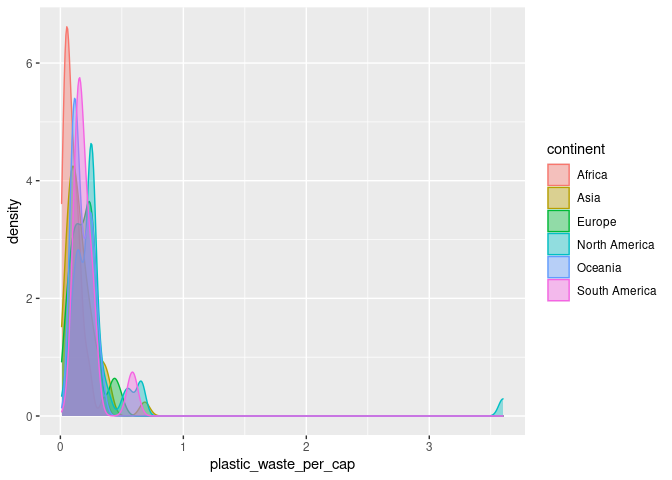
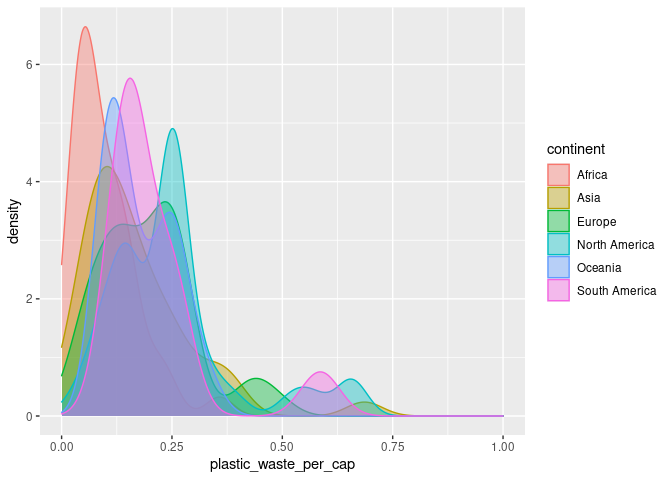
Add answers for ex 1, ex 2 and ex 3

diff --git a/lab-02.md b/lab-02.md
@@ -57,7 +57,13 @@ improperly managed and likely to end up in the ocean.
 
 ### Exercise 1
 
-Remove this text, and add your answer for Exercise 1 here.
+The density plot below shows that the majority of countries in Africa
+have very low plastic waste per capita with the majority producing 0.1
+kilograms per capita. In contrast, Europe has a wide range of plastic
+waste production with the majority ranging from 0.15-0.27 kilograms per
+capita. The plot also indicates that each continent has a number of
+outliers who produce significantly more plastic waste per capita than
+the rest.
 
 ``` r
 #Below is a histogram of plastic waste faceted
@@ -91,10 +97,11 @@ ggplot(data = plastic_waste,
        mapping = aes(x = plastic_waste_per_cap, 
                      color = continent, 
                      fill = continent)) +
-  geom_density(alpha = 0.4)
+  geom_density(alpha = 0.4) +
+  xlim(0, 1)
 ```
 
-    ## Warning: Removed 51 rows containing non-finite values (stat_density).
+    ## Warning: Removed 52 rows containing non-finite values (stat_density).
 
 ![](lab-02_files/figure-gfm/plastic-waste-density-1.png)<!-- -->
 
